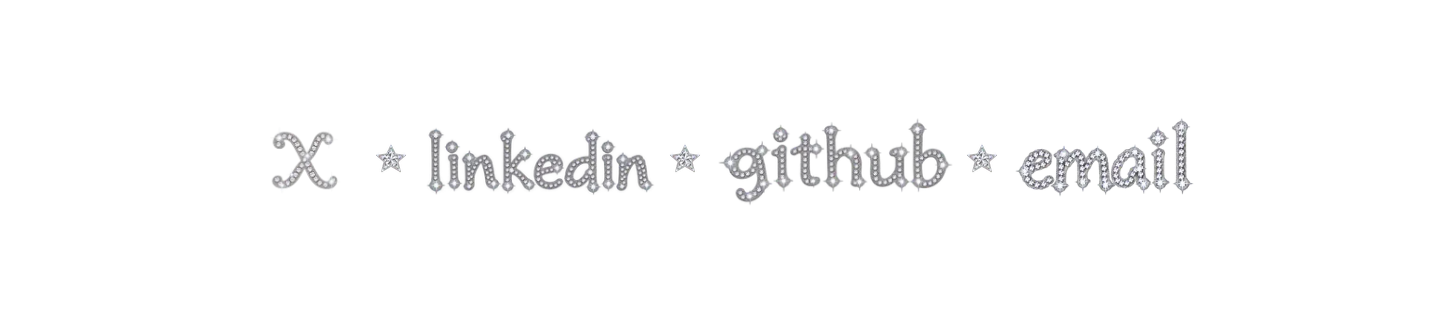
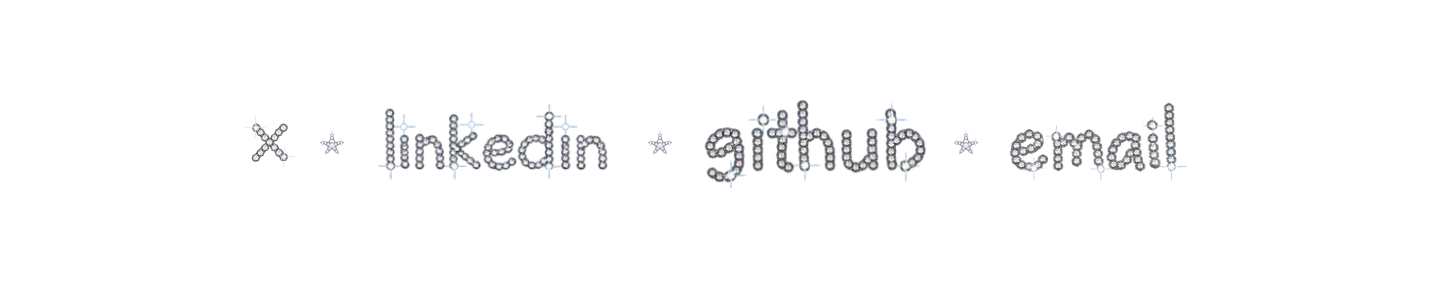
fix(footer): use approved gem artwork with transparent backgrounds

Changed region(s): [[0.1562, 0.3662, 0.8438, 0.6479]]

diff --git a/src/content/site.ts b/src/content/site.ts
@@ -81,27 +81,27 @@ export const siteContent = {
   },
 
   footer: {
-    separator: { src: '/brand/footer-star.png', width: 1278, height: 1230 },
+    separator: { src: '/brand/footer-star-v2.png', width: 1377, height: 1142 },
     links: [
       {
         name: 'x',
         href: 'https://x.com/waifu101',
-        image: { src: '/brand/footer-x.png', width: 1254, height: 1254 },
+        image: { src: '/brand/footer-x-v2.png', width: 1306, height: 1204 },
       },
       {
         name: 'linkedin',
         href: 'https://www.linkedin.com/in/sydneyessex/',
-        image: { src: '/brand/footer-linkedin.png', width: 1983, height: 793 },
+        image: { src: '/brand/footer-linkedin-v2.png', width: 2172, height: 724 },
       },
       {
         name: 'github',
         href: 'https://github.com/sessex',
-        image: { src: '/brand/footer-github.png', width: 1997, height: 787 },
+        image: { src: '/brand/footer-github-v2.png', width: 2084, height: 755 },
       },
       {
         name: 'email',
         href: 'mailto:sydneyressex@gmail.com',
-        image: { src: '/brand/footer-email.png', width: 1774, height: 887 },
+        image: { src: '/brand/footer-email-v2.png', width: 1893, height: 831 },
       },
     ],
   },

diff --git a/src/components/Footer.tsx b/src/components/Footer.tsx
@@ -23,13 +23,15 @@ export default function Footer() {
             <Link
               href={link.href}
               className="flex min-h-11 min-w-11 basis-0 items-center justify-center transition-opacity hover:opacity-70 focus-visible:outline-2 focus-visible:outline-offset-4 focus-visible:outline-black"
-              style={{ flexGrow: link.name === 'x' ? 1.3 : link.image.width / link.image.height }}
+              style={link.name === 'x'
+                ? { flex: '0 0 clamp(44px, 6vw, 64px)' }
+                : { flexGrow: link.image.width / link.image.height }}
             >
               <Image
                 {...link.image}
                 alt={link.name}
                 sizes="(max-width: 1090px) 23vw, 250px"
-                className={link.name === 'x' ? 'h-auto w-[min(100%,10vw)]' : 'h-auto w-full'}
+                className={link.name === 'x' ? 'h-auto w-[clamp(24px,5vw,64px)] max-w-full' : 'h-auto w-full'}
               />
             </Link>
           </Fragment>

diff --git a/scripts/verify-footer.py b/scripts/verify-footer.py
@@ -38,6 +38,45 @@ with sync_playwright() as playwright:
             )
             footer.screenshot(path=str(args.evidence_dir / f'footer-{width}.png'))
             page.screenshot(path=str(args.evidence_dir / f'page-{width}.png'), full_page=True)
+            transparency = footer.locator('img').evaluate_all('''images => images.map(image => {
+                const canvas = document.createElement('canvas');
+                canvas.width = image.naturalWidth;
+                canvas.height = image.naturalHeight;
+                const context = canvas.getContext('2d');
+                context.drawImage(image, 0, 0);
+                const { data } = context.getImageData(0, 0, canvas.width, canvas.height);
+                let transparentPixels = 0;
+                for (let index = 3; index < data.length; index += 4) {
+                    if (data[index] === 0) transparentPixels++;
+                }
+                const cornerPixels = [
+                    0,
+                    canvas.width - 1,
+                    (canvas.height - 1) * canvas.width,
+                    canvas.width * canvas.height - 1,
+                ];
+                return {
+                    name: image.alt || 'star',
+                    src: image.currentSrc,
+                    width: canvas.width,
+                    height: canvas.height,
+                    transparent_fraction: transparentPixels / (canvas.width * canvas.height),
+                    corner_alpha: cornerPixels.map(pixel => data[pixel * 4 + 3]),
+                };
+            })''')
+            viewport_report = {
+                'width': width,
+                'status': 'failed',
+                'links': destinations,
+                'stars': 3,
+                'transparency': transparency,
+            }
+            report['viewports'].append(viewport_report)
+            assert len(transparency) == 7, 'Expected seven footer images to inspect'
+            for image in transparency:
+                name = image['name']
+                assert image['transparent_fraction'] > 0.2, f'{name} needs more than 20% transparent pixels'
+                assert image['corner_alpha'] == [0, 0, 0, 0], f'{name} corners must be fully transparent'
             assert footer.get_by_role('link').count() == 4, 'Expected four footer links'
             observed = []
             for name, href in destinations.items():
@@ -84,7 +123,7 @@ with sync_playwright() as playwright:
                 assert link.evaluate('el => getComputedStyle(el).outlineStyle !== "none"'), f'{name} lacks focus outline'
             page.keyboard.press('Tab')
             assert not footer.evaluate('el => el.contains(document.activeElement)'), 'Extra footer tab stop'
-            report['viewports'].append({'width': width, 'status': 'passed', 'links': destinations, 'stars': 3})
+            viewport_report['status'] = 'passed'
         requests = []
         for name, href in list(destinations.items())[:3]:
             page.goto(args.url, wait_until='networkidle')

diff --git a/docs/footer-artwork.md b/docs/footer-artwork.md
@@ -2,19 +2,29 @@
 
 The footer has four linked word images and three decorative stars. Each record in `siteContent.footer.links` owns its destination, image path, and native dimensions. The renderer inserts the shared star between adjacent links.
 
-The word images use the silver rhinestone material and lowercase calligraphic serif lettering from `public/brand/subtitle-sparkle.png`. `public/brand/name-sparkle.png` supplied the second material reference. The assets were generated with the built-in imagegen tool. All five PNGs have real transparency.
+The artwork derives from the silver gem footer strip selected by the user. That strip used `public/brand/subtitle-sparkle.png` as its lettering and material reference. The separate assets and background removal passes use the built-in imagegen tool.
 
 ## Artwork prompts
 
-Generate each word separately with this prompt, substituting `x`, `linkedin`, `github`, or `email`.
+Use the approved strip as the input. Extract each word separately, substituting `x`, `linkedin`, `github`, or `email`.
 
-> Create a production website footer asset containing only the exact lowercase word on a genuinely transparent background. Match the reference's lowercase calligraphic serif typeface, softly irregular curved letter shapes, silver-gray strokes, small round clear diamond rhinestones, white starburst glints, and subtle icy blue reflections. Keep one readable word on one line. No colored jewels, gold, extra symbols, backdrop, or painted checkerboard. Preserve the complete lettering and sparkles.
+> Extract only this word as a separate image. Preserve the selected lettering, proportions, gem placement, silver color, and sparkle rays. Remove the other words and stars. Do not change the font or add details.
 
-Use this prompt for the shared separator.
+Extract the first star from the same strip for the shared separator.
 
-> Create one five-pointed silver faceted star gemstone. Match the reference lettering's silvery white rhinestone material and glints. Use dimensional triangular crystal facets, a thin silver setting, white highlights, and subtle cool blue reflections. Front view, top point upward. No lettering, extra stars, colored jewels, backdrop, or painted checkerboard. Output genuine transparency.
+The short background-removal prompt was more reliable than the detailed extraction prompt.
 
-Background extraction passes removed opaque backgrounds from the email and star outputs. A new X generation used the subtitle alone as its reference to obtain transparent silver lettering without the first attempt's checkerboard. Keep the original alpha channels when replacing or exporting these assets.
+> Remove background, keep everything else the same.
+
+GitHub and the star needed a second pass.
+
+> Remove the background. Make it transparent. Keep everything else the same.
+
+X needed an intermediate flat green background because repeated direct removals kept returning opaque checkerboards. A final pass with the short removal prompt produced real transparency.
+
+The final files use `footer-<word>-v2.png` and `footer-star-v2.png` so image optimization caches cannot serve the previous artwork.
+
+Check the actual alpha channel after every pass. A displayed checkerboard can be painted into an opaque image. Keep the final PNG alpha channels when replacing or exporting these assets.
 
 ## Verify the footer
 
@@ -34,9 +44,11 @@ python3 -m playwright install chromium
 python3 scripts/verify-footer.py --url http://127.0.0.1:42871 --evidence-dir /tmp/syd-footer-evidence
 ```
 
-The check covers four distinct loaded word images, unchanged destinations, three stars outside every link rectangle, pointer hit targets, 44 pixel minimum targets, keyboard focus, and outbound browser requests. It captures the actual page at 320, 390, 768, and 1440 pixels. It intercepts external requests and does not open the email application. It verifies this site's handoff, not third-party page content.
+The check covers four distinct loaded word images, unchanged destinations, three stars outside every link rectangle, pointer hit targets, 44 pixel minimum targets, keyboard focus, and outbound browser requests. It also reads the decoded pixels of all seven rendered images and requires fully transparent corners and more than 20% fully transparent pixels. Each viewport report records those measurements.
 
-The baseline fails with `FAIL: x must contain one word image`. The corrected footer passes the same check.
+It captures the actual page at 320, 390, 768, and 1440 pixels. It intercepts external requests and does not open the email application. It verifies this site's handoff, not third-party page content.
+
+The initial reproduction failed with `FAIL: x must contain one word image`.
 
 ## Browser evidence
 

diff --git a/CONTENT.md b/CONTENT.md
@@ -18,8 +18,8 @@ Place PNG files in `public/brand/`:
 
 - `name.png` - "SYDNEY ESSEX" bead lettering (transparent PNG)
 - `subtitle.png` - "product engineer based in nyc" (transparent PNG)
-- `footer-x.png`, `footer-linkedin.png`, `footer-github.png`, and `footer-email.png` contain the individual silver gem words. Each footer link owns one image and its native dimensions in `src/content/site.ts`.
-- `footer-star.png` is the decorative silver gem separator between links.
+- `footer-x-v2.png`, `footer-linkedin-v2.png`, `footer-github-v2.png`, and `footer-email-v2.png` contain the individual silver gem words. Each footer link owns one image and its native dimensions in `src/content/site.ts`.
+- `footer-star-v2.png` is the decorative silver gem separator between links.
 
 ### Carousel Images
 Place model cutout PNGs in `public/carousel/`:

diff --git a/README.md b/README.md
@@ -38,11 +38,11 @@ public/
   brand/
     name.png          # "SYDNEY ESSEX" bead lettering
     subtitle.png      # "product engineer based in nyc"
-    footer-x.png
-    footer-linkedin.png
-    footer-github.png
-    footer-email.png
-    footer-star.png
+    footer-x-v2.png
+    footer-linkedin-v2.png
+    footer-github-v2.png
+    footer-email-v2.png
+    footer-star-v2.png
   carousel/
     placeholder.png   # Model cutout (currently repeated)
 ```
